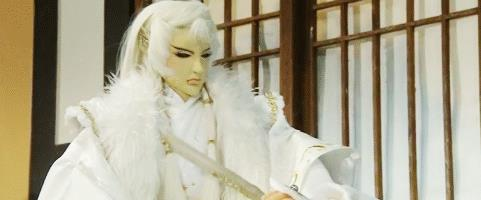
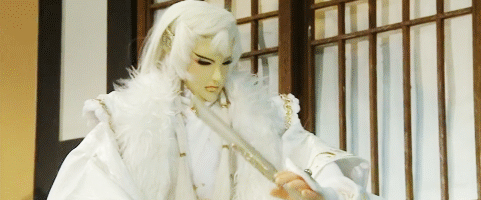
10-27 调整bug
1.body超出部分hidden
2.gif图片更换
3.更换字体图标css地址
4.增加按钮链接的视频音乐图标

diff --git a/index.html b/index.html
@@ -8,7 +8,7 @@
 	<!-- 上述3个meta标签*必须*放在最前面，任何其他内容都*必须*跟随其后！ -->
 	<title>霹雳布袋戏</title>
 
-	<link rel="stylesheet" href="https://apps.bdimg.com/libs/fontawesome/4.4.0/css/font-awesome.min.css">
+	<link rel="stylesheet" href="https://cdn.bootcss.com/font-awesome/4.7.0/css/font-awesome.min.css">
 	<link rel="stylesheet" href="https://cdn.bootcss.com/bootstrap/3.3.0/css/bootstrap.min.css">
 	<!-- <link rel="stylesheet" href="//maxcdn.bootstrapcdn.com/fontawesome/4.5.0/css/font-awesome.min.css"/> -->
 	<link rel="stylesheet" type="text/css" href="css/index.css">
@@ -98,7 +98,7 @@
     	      <div class="caption">
     	        <h4>黄强华</h4>
     	        <p class="text-left">霹雳国际董事长。开创剧情诡谲多变，与时俱进，结合科技与传统的霹雳布袋戏，将霹雳逐步推向国际、世界的舞台上。主导霹雳剧情、牵动观众情绪者，正是有十车书美名的黄董，他以丰富的想像力，贯穿传统戏文，又将国学的精华，信手拈来，创造出炫目的霹雳武侠世界。</p>
-    	        <p><a href="https://www.bilibili.com/video/av3596479/" class="btn btn-default btn-primary" role="button">节目介绍</a></p>
+    	        <p><a href="https://www.bilibili.com/video/av3596479/" class="btn btn-default btn-primary" role="button">节目介绍<i class="fa fa-video-camera fa-fw" aria-hidden="true"></i></a></p>
     	      </div>
     	    </div>
     	  </div>
@@ -108,7 +108,7 @@
     	      <div class="caption">
     	        <h4>黄文泽</h4>
     	        <p class="text-left">素有八音才子美称，是当前布袋戏配音界的第一把交椅。秉持着台湾布袋戏的传统，闽南语版所有角色皆由黄文择独立配音，他丰富的声音表演不只赋予戏偶生命力，一气呵成的表演方式更是动人，多年来吸引戏迷无数，连国外优秀的专业配音演员也都赞叹不已。</p>
-    	        <p><a href="https://www.bilibili.com/video/av10339436/" class="btn btn-default btn-primary" role="button">配音试听</a></p>
+    	        <p><a href="https://www.bilibili.com/video/av10339436/" class="btn btn-default btn-primary" role="button">配音试听<i class="fa fa-video-camera fa-fw" aria-hidden="true"></i></a></p>
     	      </div>
     	    </div>
     	  </div>
@@ -118,7 +118,7 @@
     	      <div class="caption">
     	        <h4>阿轮</h4>
     	        <p class="text-left">从事布袋戏音乐创作至今，阿轮倾全力完成无数布袋戏剧集主题曲、演唱歌曲、角色音乐等高难度创作，累计创作乐曲将近500首音乐，作词、作曲、许多作品已经成为经典，而多首演唱歌曲也已被流行歌手翻唱。另外，阿轮也持续词曲的创作，作品也广为许多艺人所演唱。</p>
-    	        <p><a href="http://music.163.com/#/playlist?id=629391067" class="btn btn-default btn-primary" role="button">霹雳音乐</a></p>
+    	        <p><a href="http://music.163.com/#/playlist?id=629391067" class="btn btn-default btn-primary" role="button">霹雳音乐<i class="fa fa-music fa-fw" aria-hidden="true"></i></a></p>
     	      </div>
     	    </div>
     	  </div>
@@ -128,7 +128,7 @@
     	      <div class="caption">
     	        <h4>猫叔</h4>
     	        <p class="text-left">在木偶的世界当中，木偶本是不会动的，赋予木偶生命力的，正是操偶师，木偶的喜怒哀乐，一颦一笑，文戏武戏皆出自他们之手。猫叔乃霹雳资深操偶师，与剧中角色相比，猫叔的粉丝可也不少。萌萌哒猫叔入驻微博后更是显露萌叔本性，时常化身"点赞狂魔"。</p>
-    	        <p><a href="https://www.bilibili.com/video/av14045380/" class="btn btn-default btn-primary" role="button">了解操偶</a></p>
+    	        <p><a href="https://www.bilibili.com/video/av14045380/" class="btn btn-default btn-primary" role="button">了解操偶<i class="fa fa-video-camera fa-fw" aria-hidden="true"></i></a></p>
     	      </div>
     	    </div>
     	  </div>
@@ -234,13 +234,13 @@
 		</div>
 		<div class="row role">
 			<div class="col-md-5 col-sm-push-6 col-xs-12">
-				<a href="#" class="thumbnail"><img src="images/actor-hyc.JPG" alt="寒烟翠" title="寒烟翠" onmouseover="this.src='images/actor-hyc.gif'" onmouseout="this.src='images/actor-hyc.JPG'"></a>
+				<a href="#" class="thumbnail"><img src="images/actor-ycx.JPG" alt="戢武王" title="戢武王" onmouseover="this.src='images/actor-ycx.gif'" onmouseout="this.src='images/actor-ycx.JPG'"></a>
 			</div>
 			<div class="col-md-5 col-md-offset-1 col-sm-pull-5 col-xs-12 text-center">
-				<h3>寒烟翠</h3>
-				<p>问郎君，寂寞欢娱恨离别，杨柳芳菲，折来谁赠？</p>
-				<p>问郎君，春花秋月梦浮生，相思泪下，愁肠谁饮？</p>
-				<p>美到只能百合，可惜没成功。</p>
+				<h3>戢武王</h3>
+				<p>太初之杀，戢武。</p>
+				<p>混沌之戮，弭兵。</p>
+				<p>身为鄙女风气盛行的杀戮碎岛的王，可敬，可叹。</p>
 			</div>
 		</div>
 		<div class="row role">

diff --git a/css/index.css b/css/index.css
@@ -1,3 +1,6 @@
+body {
+  overflow-x: hidden;
+}
 .banner .container-fluid .row .pc-banner {
   position: relative;
   height: 500px;

diff --git a/css/index.less b/css/index.less
@@ -1,3 +1,6 @@
+body{
+	overflow-x: hidden;
+}
 //banner部分
 .banner{
   .container-fluid{
